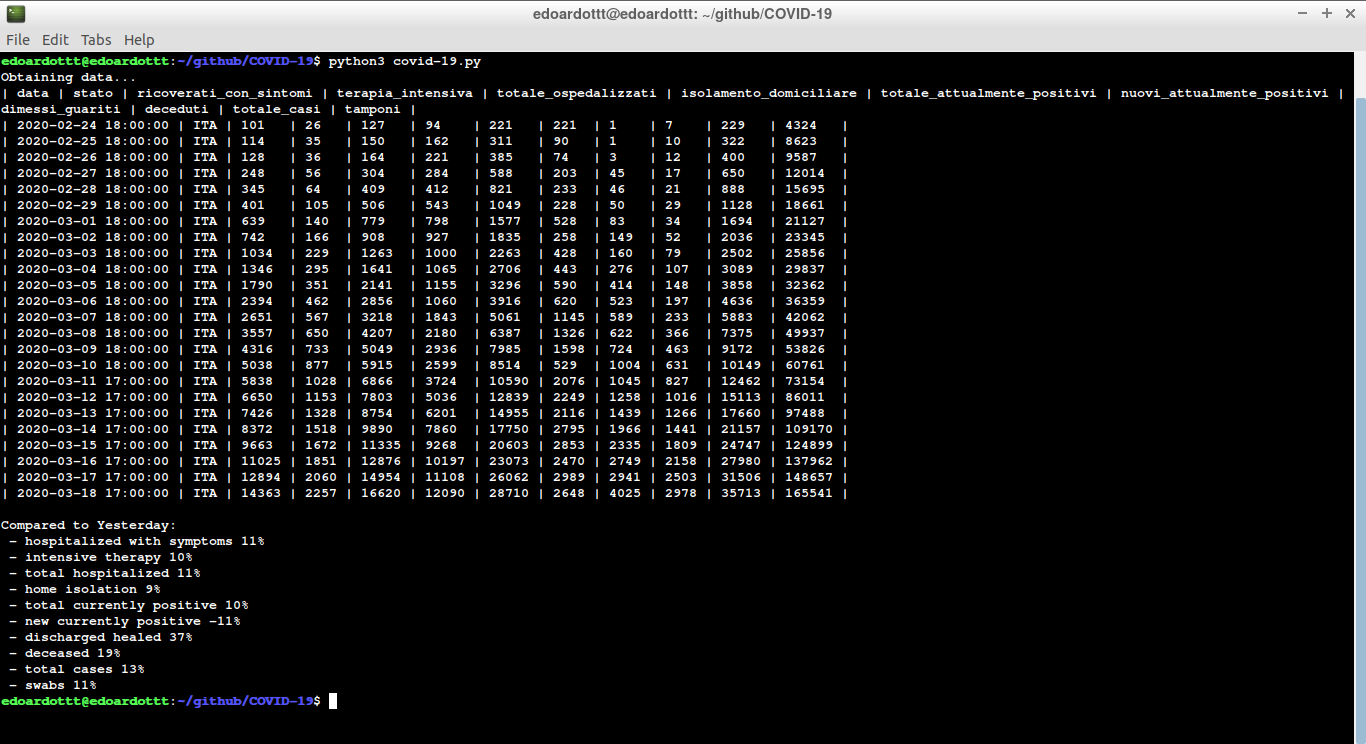
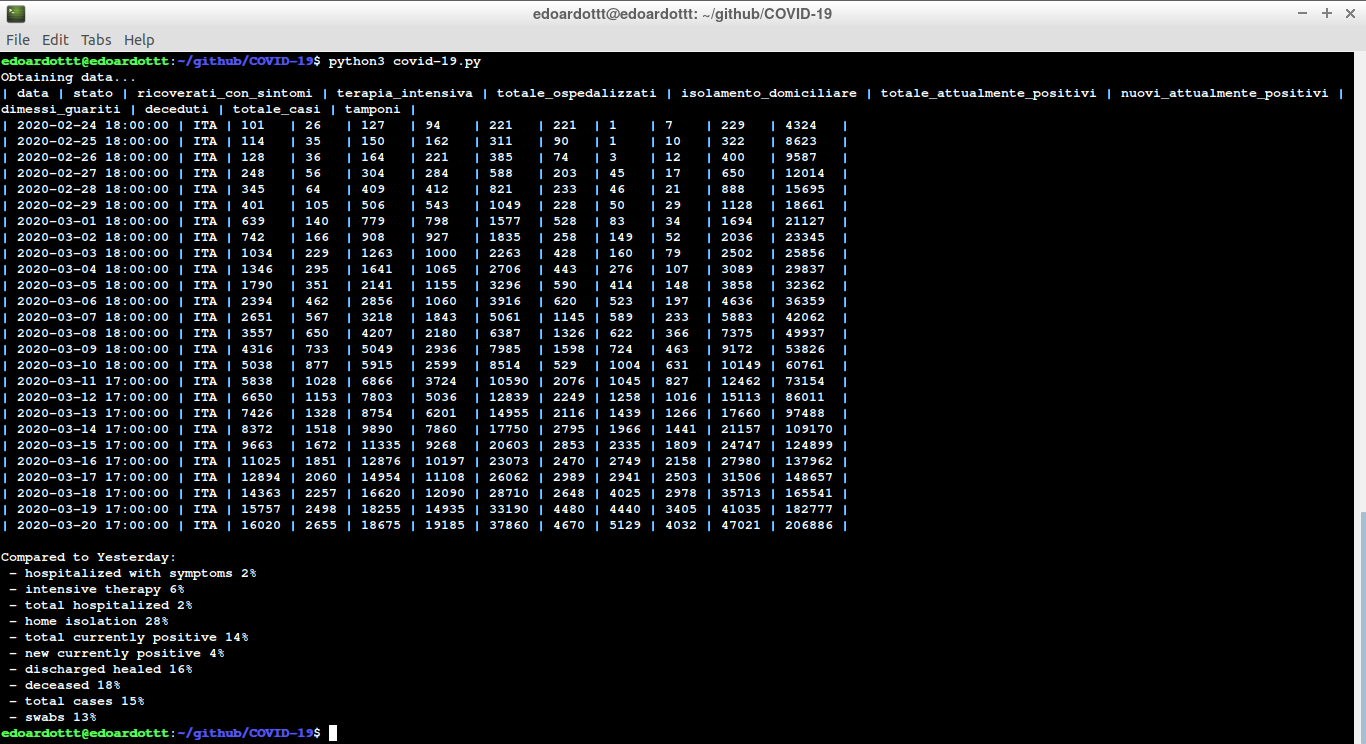
up to date 20/03/2020

Changed region(s): [[0.0, 0.6801, 0.6149, 1.0], [0.9839, 0.1237, 1.0, 1.0]]

diff --git a/README.md b/README.md
@@ -42,7 +42,7 @@ USAGE: python covid-19.py [-h]
 
 **Use python3 if you are on Linux.**
 
-**Screenshot of the output of script.py on 18/3/2020**
+**Screenshot of the output of script.py on 20/3/2020**
 ![2](https://github.com/edoardottt/COVID-19/blob/master/Images/2.png)
 
 --------------------------
